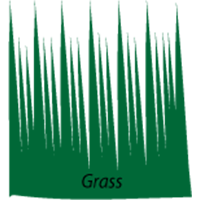
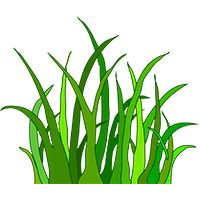
changed the initial background

diff --git a/NeeditFeeditCocos/MenuLayer.m b/NeeditFeeditCocos/MenuLayer.m
@@ -49,23 +49,21 @@
 		CGSize size = [[CCDirector sharedDirector] winSize];
         
         //Create and add background
-        CCSprite* background = [CCSprite spriteWithFile:@"background.png"];
+        CCSprite* background = [CCSprite spriteWithFile:@"background2.png"];
         background.position = ccp(size.width/2, size.height/2);
         [self addChild:background z:-1];
 		
 		// create title label
-        CCSprite* title = [CCSprite spriteWithFile:@"title1.png"];
+        CCSprite* title = [CCSprite spriteWithFile:@"title.png"];
 		title.position =  ccp( size.width /2 , size.height/1.5 );
         
-        CCMenuItemImage* start =[CCMenuItemImage itemWithNormalImage:@"start1.png" selectedImage:@"start1.png" target:self selector:@selector(goToLevelPick:)];
+        CCMenuItemImage* start =[CCMenuItemImage itemWithNormalImage:@"start.png" selectedImage:@"start.png" target:self selector:@selector(goToLevelPick:)];
         
         //Create an instructions menu item 
-        [CCMenuItemFont setFontName:@"Marker Felt"];
-        [CCMenuItemFont setFontSize:50];
-        CCMenuItem* instructions  = [CCMenuItemFont itemWithString:@"Instructions" target:self selector:@selector(goToInstructions:)];
-        instructions.color = ccBLACK;
-        CCMenuItem* credits  = [CCMenuItemFont itemWithString:@"Credits" target:self selector:@selector(goToCredits:)];
-        credits.color = ccBLACK;
+        CCMenuItemImage* instructions  = [CCMenuItemImage itemWithNormalImage:@"instructions.png" selectedImage:@"instructions.png" target:self selector:@selector(goToInstructions:)];
+
+        //Create a credits menu item
+        CCMenuItemImage* credits  = [CCMenuItemImage itemWithNormalImage:@"credits.png" selectedImage:@"credits.png" target:self selector:@selector(goToCredits:)];
         
         //Create the menu to hold the start command
         CCMenu* topMenu = [CCMenu menuWithItems:start, nil];
